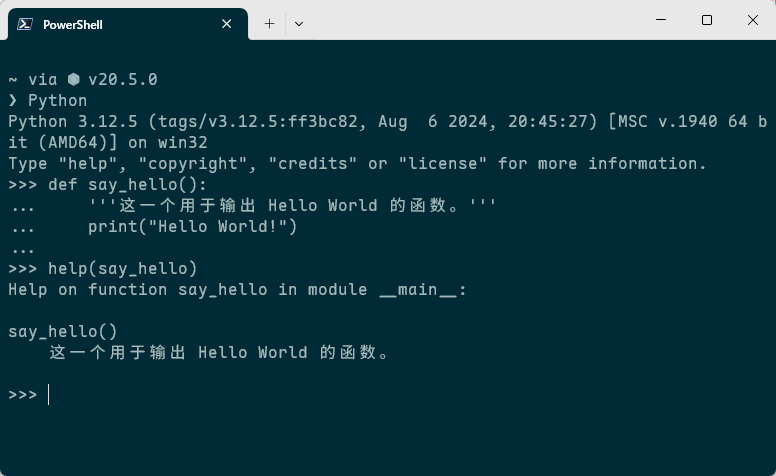
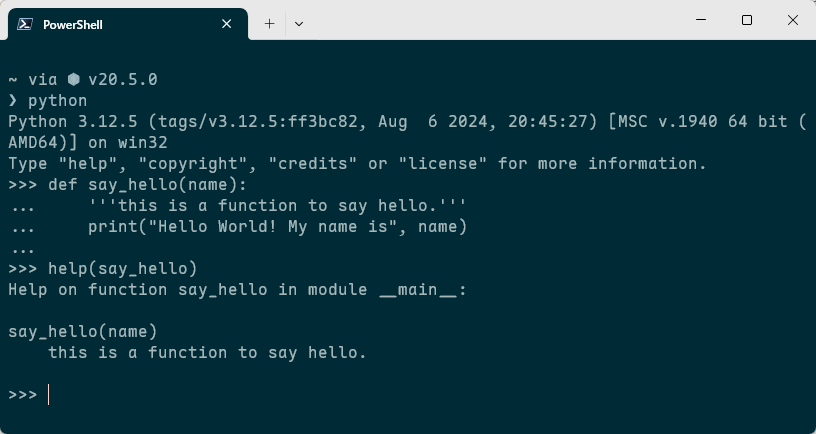
'开始重新整理Python学习笔记，第二天'

diff --git a/02_编程技术研究/00.计算机语言/01.编程语言/Python/02.学习笔记/examples/HelloPython/sayHello.py b/02_编程技术研究/00.计算机语言/01.编程语言/Python/02.学习笔记/examples/HelloPython/sayHello.py
@@ -1,0 +1,31 @@
+#! /usr/bin/env python
+'''
+    Created on 2020-3-1
+
+    @author: lingjie
+    @name : Hello Python
+'''
+
+auther_name = "lingjie"
+
+def say_hello(name):
+    '''this is a function to say hello.'''
+    print("Hello World! My name is", name)
+
+    # 定义一个包含较长文本的变量 message
+    message = "\nThis is an object-oriented,open-source programming language often used for rapid application development.Python's simple syntax amphasizes readability,reducing the cost of program mantenance, while its large library of functions and calls encourages reuse and extensibility."
+    print(message)
+
+    
+def another_name():
+    '''this is another function.'''
+    # 在函数内部重新定义一个名为 auther_name 的变量
+    auther_name = "owlman"
+    # 此时 auther_name 变量的值为 "owlman" 
+    say_hello(auther_name)
+
+if __name__ == "__main__":
+    # 此时 auther_name 变量的值为 "lingjie"
+    say_hello(auther_name)
+    print()
+    another_name()

diff --git a/02_编程技术研究/00.计算机语言/01.编程语言/Python/02.学习笔记/Python 学习笔记：基本语法.md b/02_编程技术研究/00.计算机语言/01.编程语言/Python/02.学习笔记/Python 学习笔记：基本语法.md
@@ -1,6 +1,6 @@
 # Python 学习笔记：基本语法
 
-自《The C Programming Language》这本在编程语言领域中堪称“圣经”的经典教材问世以来，在命令行终端环境中输出带有“Hello World”字样的信息已经成为了人们学习一门新的编程语言，或者测试该语言编程工具的第一个演示程序。这样做不仅可以先让读者对要学习的编程语言及其执行程序的方式有一个整体的印象，同时也为接下来的基本语法学习提供了一个切入点。所以，现在就让我们闲话少说，先从 Python 版的 Hello World 程序开始针对这门编程语言的学习之旅吧！
+自《The C Programming Language》这本在编程语言领域中堪称“圣经”的经典教材问世以来，在命令行终端环境中输出带有“Hello World”字样的信息已经成为了人们学习一门新的编程语言，或者测试该语言编程工具的第一个演示程序。这样做不仅可以先让读者对要学习的编程语言及其执行程序的方式有一个整体的印象，同时也为接下来的基本语法学习提供了一个切入点。所以，现在就让我们闲话少说，先从《[[Python 学习笔记：编程环境]]》那篇笔记末尾的那版 Hello World 程序开始聊起吧，其代码如下所示。
 
 ```python
 #! /usr/bin/env python
@@ -11,12 +11,14 @@
     @name : Hello Python
 '''
 
-def say_hello():
-    '''这一个用于输出 Hello World 的函数。'''
-    print("Hello World!")
+auther_name = "lingjie"
+
+def say_hello(name):
+    '''this is a function to say hello.'''
+    print("Hello World! My name is", name)
 
 if __name__ == "__main__":
-    say_hello()
+    say_hello(auther_name)
 ```
 
 ## 为代码编写注释
@@ -48,7 +50,7 @@ if __name__ == "__main__":
 
     **请注意**：如果严格按照 Python 的语法规则来说，这种多行注释其实应该被视为一个包含多行文本的字符串，它的作用与纯粹的注释语句并不完全相同。因为 Python 解释器会将它当作一个字符串对象来处理，而不是简单地忽略它。虽然在大多数情况下，这种字符串对象不会对代码的执行产生任何影响，但如果我们将其用在了函数或类定义的开头，它就会被当作该函数或类的**文档字符串（docstring）**来处理，这可以通过`help()`函数来查看该函数或类的文档说明。例如在上面的 Hello World 程序中，我们就使用了这种多行字符串对象为`say_hello()`函数编写了一个文档字符串。读者可以通过在Python的交互式终端中输入`help(say_hello)`命令来查看该函数的文档说明，就像下面这样：
 
-    ![Python 中的文档字符串](img/helpDocstring.png)
+    ![Python 中的文档字符串](./img/helpDocstring.png)
 
 正如我们之前所说，注释存在的目的是说明相关代码的设计意图，以此来提高代码的可读性，方便日后的测试与维护工作。例如在上面这段示例代码中，我们用注释说明了它用于示范在 Python 中执行加法运算，并使用了`x`、`y`、`z`三个变量，当然了，编写这种画蛇添足式的注释事实上并不值得鼓励。因为，我们必须考虑到 Python 本身就是一门用于表达信息的语言，它的作用除了让机器按照它的意图正确执行之外，也应该让使用这门语言的人类看得懂它的意图。注释的作用只能是辅助说明，可不是充当 Python 自身的翻译。换而言之，我们应该尽量用代码本身来表达它所要表达的意图，而不是处处都借助注释。
 
@@ -60,9 +62,45 @@ name = "lingjie"
 print("Hello ", name)
 ```
 
-## 函数及其作用域
+## 变量与函数
 
-下面，让我们继续之前 Hello World 程序的讲解。读者在看完该程序的注释说明之后，紧接着看到的是一个函数定义语句。在 Python 中，函数定义语句的语法规则如下。
+下面，让我们继续之前 Hello World 程序的讲解。读者在看完该程序的注释说明之后，接下来会看到的是一个变量定义语句。“变量"这个概念最早源自于数学中的代数运算，为了方便演算过程的书写，我们通常会用一些简单的字母来指代演算过程中不断变化的已知量或未知量，毕竟在公式中写`x`、`y`、`z`这样的字母总是要比写 $10^{55}$ 作用的数字或者 $\sum_{i=0}^{n}$ 这样的表达式简单方便多了。而到了计算机编程语言中，变量的概念得到了进一步扩展，除了是某个数据值的指代外，它还关联着计算机中用于存储该数据的一块内存空间，换而言之，变量现在还是程序用来存储某个数据的容器。当然了，这些容器既然能被称为“变”量，也就说明它们所存储的数据是会随着程序的执行而变化的。由于变量是程序所要操作的基本对象，所以在编写程序时，定义变量往往是我们首先要做的工作。接下来，就让我们详细介绍一下变量在 Python 编程中的使用方法吧！
+
+### 变量的定义
+
+在 Python 中，定义变量的语法规则是`[变量名] = [变量值]`,其中，`[变量名]`是我们要定义的变量名称，`[变量值`则是我们要存储在该变量中的数据或者用于计算出该数据的表达式（关于表达式的概念，我稍后会做详细介绍）。具体到 Hello World 程序中，`[变量名]`对应的就是`auther_name`，而`[变量值]`则是字符串类型的`"lingjie"`。
+
+下面，让我们先来具体讨论一下`[变量名]`的设置问题。和绝大多数编程语言一样，Python 中的变量名可以由字母、数字与下划线以任何顺序排列组合而成，其中不能包含空格符以及`-`、`$`这样的特殊符号，并且只能以字母、下划线开头，像下面这些变量名都是不被允许的：
+
+```python
+$dollar = 100
+2day = 10
+'Week =11
+\Month = 12
+/Year = 14
+my-name = "lingjie"
+```
+
+除此之外，我们所使用的变量名还需要注意避开 Python 语言自身要使用的关键字，我们可以利用语言标准库中一个名为`keyword`的模块来获取当前已被 Python 占用的所有关键字，具体如下图所示。
+
+![Python 中的关键字](./img/keyword.png)
+
+当然了，出于代码可读性方面的考虑，我们在选择变量名的时候还应该尽量使用有意义的单词或单词组合，不能太过随意。在这里，笔者个人更倾向于建议读者应在变量的命名上遵守某种一致的命名规范。譬如驼峰命名法，遵守这种命名规范的变量名通常由一个以上的单词组成，除了首个单词的字母不是大写，其余所有单词的首字母均为大写，例如`myName`、`my_Book`、`someValue`、`getObject`等。而在 Python 社区中，人们通常更倾向于使用下划线来分隔英文单词的蛇形命名法来命名变量，例如`my_name`、`my_book`、`some_value`、`get_object`等。虽然这些命名规范并不是强制性的，但它们可以帮助我们更好地理解代码的意图，尤其是在团队协作中，遵守统一的命名规范更是至关重要。
+
+在掌握了`[变量名]`的设置方法之后，我们就可以接着来讨论`[变量值]`的设置问题了。如果读者之前学习过 C/C++/Java 这类编程语言，想必一定会发现在 Python 中定义变量是不需要声明变量类型的。因为 Python 是一门动态类型语言，它会在运行时自动根据变量值的类型来决定该变量的类型。也就是说，Python 语言中的变量是可以随时改变其存储的数据类型的。例如，我们可以先将一个整数值赋给一个变量，然后再将一个字符串值赋给同一个变量，这样就可以让该变量的类型从整数变成字符串了，就像下面这样：
+
+```python
+x = 100          # 将整数值赋给变量 x
+print(x)         # 输出变量 x 的值为 100
+x = "lingjie"    # 再将字符串值赋给同一个变量 x
+print(x)         # 输出变量 x 的值为 "lingjie"
+```
+
+至于 Python 的变量中究竟可以存储哪些类型的数据，我稍后会在讨论“对象与数据类型”这一议题时再详细介绍。现在，读者只需要知道在 Python 中定义变量时，我们只需要指定变量名和变量值即可。
+
+### 函数与作用域
+
+下面，让我们继续讲解 Hello World 程序。在完成了`auther_name`这个变量的定义动作后，读者紧接着看到的是一个函数定义语句。“函数”这个概念最早也源自于数学，用于描述运算变量之间的关系。例如三角函数中的正弦函数 $y = sin(x)$，它描述的是一个变量 $x$ 与另一个变量 $y$ 之间的关系。随着计算机编程语言的发展，函数的概念也得到了进一步扩展，它现在不仅可以表示两个变量之间的关系，还可以表示一组操作的集合，这些操作可以接受输入并返回输出。换而言之，函数就是一组可以被调用来执行特定任务的代码块。在 Python 中，函数定义语句的语法规则如下。
 
 ```python
 def [函数名称]([参数列表]):
@@ -72,56 +110,58 @@ def [函数名称]([参数列表]):
     [函数主体]
 ```
 
-在上述语法规则中，函数定义语句以`def`这个词开头，然后需依次定义`[函数名称]`、`[参数列表]`、`[功能说明]`以及要执行的`[函数主体]`，其中，`[参数列表]`、`[功能说明]`在不需要的情况下是可以省略的。如果具体到 Hello World 程序中，`[函数名称]`对应的就是`say_hello`，`[参数列表]`在这里被省略了，而`[功能说明]`则是之前演示过的文档字符串。最后，其`[函数主体]`中只有一条用于打印文本信息的语句。与 C/C++/Java 这类语言相比，Python 语法的最大特色之一就是：它不是使用大括号，而是使用文本缩进格式来表示不同的作用域。因此，我们可以看到`[函数主体]`所在的区域与`def`所在的行之间存在着四个空格的缩进。需要注意的是，虽然在语法规则上，定义作用域的缩进所使用的空格数是可变的，但同一级作用域使用的缩进格式必须保持相同的空格数，否则就会出现错误。
+正如读者所见，按照 Python 的语法规则，函数的定义语句必须要以`def`这个关键字开头，然后需依次定义`[函数名称]`、`[参数列表]`、`[功能说明]`以及要执行的`[函数主体]`，其具体说明如下：
 
-而在同一个作用域内，我们通常都有一个独立的变量命名空间可以使用，读者可以在其中定义多个局部变量，并编写多行语句来执行与这些变量相关的操作，完全不必担心自己使用的变量名与某个全局变量冲突。另外在 Python 中，通常一个逻辑行代表着一条独立的语句。如果某一条语句因过长而影响了代码的可读性，代码编辑器可能会对其进行自动换行，但它在 Python 运行时环境看来依然属于同一逻辑行。例如，我们可以对之前的 Hello World 程序做一些修改，让它输出的内容丰富一些。
+- `[函数名称]`是被定义函数的名称，在 Python 中，函数的命名规则与变量是一样的，读者可以自行参考之前关于变量命名规则的介绍来了解更多细节。
+- `[参数列表]`是调用函数时需要传入的参数列表，它可以为空，也可以包含一个或多个参数。每个参数之间用逗号隔开，参数的命名规则同样与变量名一致。
+- `[功能说明]`是之前演示过的文档字符串，它是一个用于描述函数功能和用法的多行字符串，通常位于函数定义的第一行。在函数的功能过于简答时，这个说明可以省略不写，但在函数的功能较为复杂时，编写一个清晰的功能说明是非常有必要的。
+- `[函数主体]`是函数的具体实现部分，其中包含了该函数执行的所有代码。
+
+如果具体到 Hello World 程序中，`[函数名称]`对应的就是`say_hello`，`[参数列表]`在这里就是一对小括号中的`name`，而`[功能说明]`则是我们之前在 Python 交互式终端中使用`help`函数展示过的那个文档字符串。最后，其`[函数主体]`中只有一条用于打印文本信息的语句。与 C/C++/Java 这类语言相比，Python 语法的最大特色之一就是：它不是使用大括号，而是使用文本缩进格式来表示不同的作用域。因此，我们可以看到`[函数主体]`所在的区域与`def`所在的行之间存在着四个空格的缩进。需要注意的是，虽然在语法规则上，定义作用域的缩进所使用的空格数是可变的，但同一级作用域使用的缩进格式必须保持相同的空格数，否则就会出现错误。
+
+而在同一个作用域内，我们通常都有一个独立的变量命名空间可以使用，读者可以在其中定义多个局部变量，并编写多行语句来执行与这些变量相关的操作，完全不必担心自己使用的变量名与某个全局变量冲突。例如，如果我们在之前的 Hello World 程序中新增一个名为`another_name`的函数，并在该函数重新定义一个名为`auther_name`的变量，那么它就会覆盖掉之前定义的全局变量`auther_name`，从而使得该函数内部的代码可以使用这个变量名来引用新的值，具体如下。
 
 ```python
-#! /usr/bin/env python
-'''
-    Created on 2020-3-1
+auther_name = "lingjie"
 
-    @author: lingjie
-    @name : Hello Python
-'''
+def say_hello(name):
+    '''this is a function to say hello.'''
+    print("Hello World! My name is", name) 
 
-def say_hello():
-    '''这一个用于输出 Hello World 的函数。'''
+def another_name():
+    '''this is another function.'''
+    # 在函数内部重新定义一个名为 auther_name 的变量
+    auther_name = "owlman"
+    # 此时 auther_name 变量的值为 "owlman" 
+    say_hello(auther_name)
 
-    message = "This is an object-oriented,open-source programming language often used for rapid application development.Python's simple syntax amphasizes readability,reducing the cost of program mantenance, while its large library of functions and calls encourages reuse and extensibility."
-
-    print("Hello Python! \n", message)
-
-if (__name__ == "__main__"):
-    say_hello()
+if __name__ == "__main__":
+    # 此时 auther_name 变量的值为 "lingjie"
+    say_hello(auther_name)
+    another_name()
 ```
 
-上述代码的执行结果如下图所示，读者可以看到，我们在`main`函数的作用域中新增了一个名为`message`的变量，给它赋值了一个比较长的字符串，虽然编辑器将其自动换行成了三行内容，但它们在逻辑上依然被视为同一行内容来输出的。
+上述修改的执行结果如下图所示，读者可以看到，在`another_name`函数中重新定义的`auther_name`变量并没有影响到全局变量的值。
+
+![Python 中的作用域](./img/helloPython1.png)
+
+另外在 Python 中，通常一个逻辑行代表着一条独立的语句。如果某一条语句因过长而影响了代码的可读性，代码编辑器可能会对其进行自动换行，但它在 Python 运行时环境看来依然属于同一逻辑行。例如，我们可以对之前的`say_hello`函数做一些修改，让它输出的内容丰富一些。
+
+```python
+def say_hello(name):
+    '''this is a function to say hello.'''
+    print("Hello World! My name is", name)
+
+    # 定义一个包含较长文本的变量 message
+    message = "\nThis is an object-oriented,open-source programming language often used for rapid application development.Python's simple syntax amphasizes readability,reducing the cost of program mantenance, while its large library of functions and calls encourages reuse and extensibility."
+    print(message)
+```
+
+上述代码在 VS Code 编辑器中的显示效果如下图所示，读者可以看到，我们在`say-hello`函数的作用域中新增了一个名为`message`的变量，给它赋值了一个比较长的字符串，虽然编辑器将其自动换行成了三行内容，但它们在逻辑上依然被视为同一行内容来输出的。
 
 ![Python 中的逻辑行](./img/helloPython2.png)
 
-## 变量与数据类型
-
-众所周知，变量这个概念最早源自于数学中的代数运算，为了方便演算过程的书写，我们通常会用一些简单的字母来指代演算过程中不断变化的已知量或未知量，毕竟在公式中写`x`、`y`、`z`这样的字母总是要比写 $10^{55}$ 作用的数字或者 $\sum_{i=0}^{n}$ 这样的表达式简单方便多了。而到了计算机程序中，变量的概念得到了进一步扩展，除了是某个数据值的指代外，它还关联着计算机中用于存储该数据的一块内存空间，换而言之，变量现在还是程序用来存储某个数据的容器。当然了，这些容器既然能被称为“变”量，也就说明它们所存储的数据是会随着程序的执行而变化的。由于变量是程序所要操作的基本对象，所以在编写程序时，定义变量往往是我们首先要做的工作。接下来，就让我们详细介绍一下变量在 Python 编程中的使用方法吧！
-
-### 变量的定义
-
-正如我们之前在定义`message`变量时所做的那样，在 Python 代码中定义变量是无须先声明的，我们在执行赋值操作的同时就已经完成了变量的定义。接下来，让我们来具体讨论一下变量的命名问题。和绝大多数编程语言一样，Python 中的变量名可以由字母、数字与下划线以任何顺序排列组合而成，其中不能包含空格符以及`-`、`$`这样的特殊符号，并且只能以字母、下划线开头，像下面这些变量名都是不被允许的：
-
-```python
-2day = 10
-'Week =11
-\Month = 12
-/Year = 14
-```
-
-除此之外，我们所使用的变量名还需要注意避开 Python 语言自身要使用的保留字，我们可以利用语言标准库中一个名为`keyword`的模块来获取当前已被 Python 占用的所有保留字，具体如下图所示。
-
-![Python 中的保留字](img/keyword.png)
-
-当然了，出于代码可读性方面的考虑，我们在选择变量名的时候还应该尽量使用有意义的单词或单词组合，不能太过随意。在这里，笔者个人更倾向于建议读者应在变量的命名上遵守某种一致的命名规范。譬如驼峰命名法，遵守这种命名规范的变量名通常由一个以上的单词组成，除了首个单词的字母不是大写，其余所有单词的首字母均为大写，例如`myName`、`my_Book`、`someValue`、`getObject`等。而在 Python 社区中，人们通常更倾向于使用下划线来分隔英文单词的蛇形命名法来命名变量，例如`my_name`、`my_book`、`some_value`、`get_object`等。虽然这些命名规范并不是强制性的，但它们可以帮助我们更好地理解代码的意图，尤其是在团队协作中，遵守统一的命名规范更是至关重要。
-
-### 基本数据类型
+## 对象与数据类型
 
 现在，让我们再来重点关注一下变量的数据类型。在计算机中，如果程序想要对某一块内存空间中数据进行存储和操作，首先要明确的是该空间内数据的存储方式和操作方式。譬如，变量中存储的是数据本身还是数据在内存中的位置？这将决定着这些数据的复制方式。再譬如，变量中的数据可以执行什么操作？是算术运算还是逻辑判断，亦或是文本处理？这就需要我们对这些内存空间中的数据，即变量的值进行归类，譬如用来做算术运算的数据归为一类，用于文本处理的数据则归为另一类，在编程术语上，这些归类被人们约定俗成地称之为“类型（type）”。简而言之，就是变量中的值所属的类型决定了该变量的存储形式及其可以执行的操作。下面，我们具体介绍一下在 Python 中可以使用的数据类型，先从该语言支持的 6 大基本数据类型开始，具体如下。
 

diff --git a/02_编程技术研究/00.计算机语言/01.编程语言/Python/02.学习笔记/Python 学习笔记：编程环境.md b/02_编程技术研究/00.计算机语言/01.编程语言/Python/02.学习笔记/Python 学习笔记：编程环境.md
@@ -90,7 +90,7 @@
 
 1. 在自己的计算机设备上设置一个用于存放演示代码的目录（在这里即`examples`目录），并在该目录下创建一个名为`HelloPython`的目录。
 
-2. 使用 VS Code 编辑器打开刚刚创建的`HelloPython`目录，并在该目录下创建一个名为的`main.py`文件，以作为本示例的程序入口文件，然后在其中编写如下代码：
+2. 使用 VS Code 编辑器打开刚刚创建的`HelloPython`目录，并在该目录下创建一个名为的`sayHello.py`文件，以作为本示例的程序入口文件，然后在其中编写如下代码：
 
     ```python
     #! /usr/bin/env python
@@ -101,14 +101,16 @@
         @name : Hello Python
     '''
 
-    def say_hello():
-        '''这一个用于输出 Hello World 的函数。'''
-        print("Hello World!")
+    auther_name = "lingjie"
+
+    def say_hello(name):
+        '''this is a function to say hello.'''
+        print("Hello World! My name is", name)
 
     if __name__ == "__main__":
-        say_hello()
+        say_hello(auther_name)
     ```
 
-3. 在保存上述文件之后，打开 VS Code 编辑器中集成的终端环境并进入到`HelloPython`目录下，然后执行`python main.py`命令运行这个 Hello World 程序。如果该程序在终端中输出了如下图所示的信息，就说明我们已经成功配置好了使用 Python 语言的编程工具。
+3. 在保存上述文件之后，打开 VS Code 编辑器中集成的终端环境并进入到`HelloPython`目录下，然后执行`python sayHello.py`命令运行这个 Hello World 程序。如果该程序在终端中输出了如下图所示的信息，就说明我们已经成功配置好了使用 Python 语言的编程工具。
 
     ![Hello World 运行结果](img/helloPython.png)
